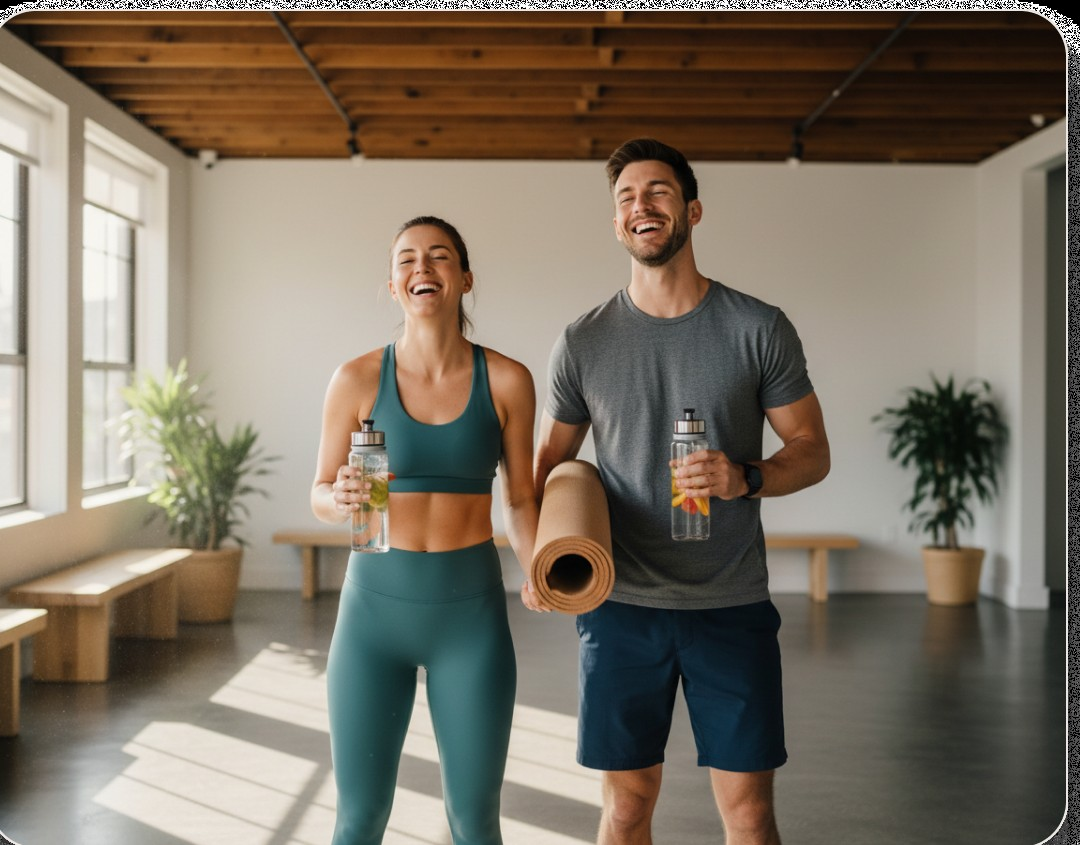
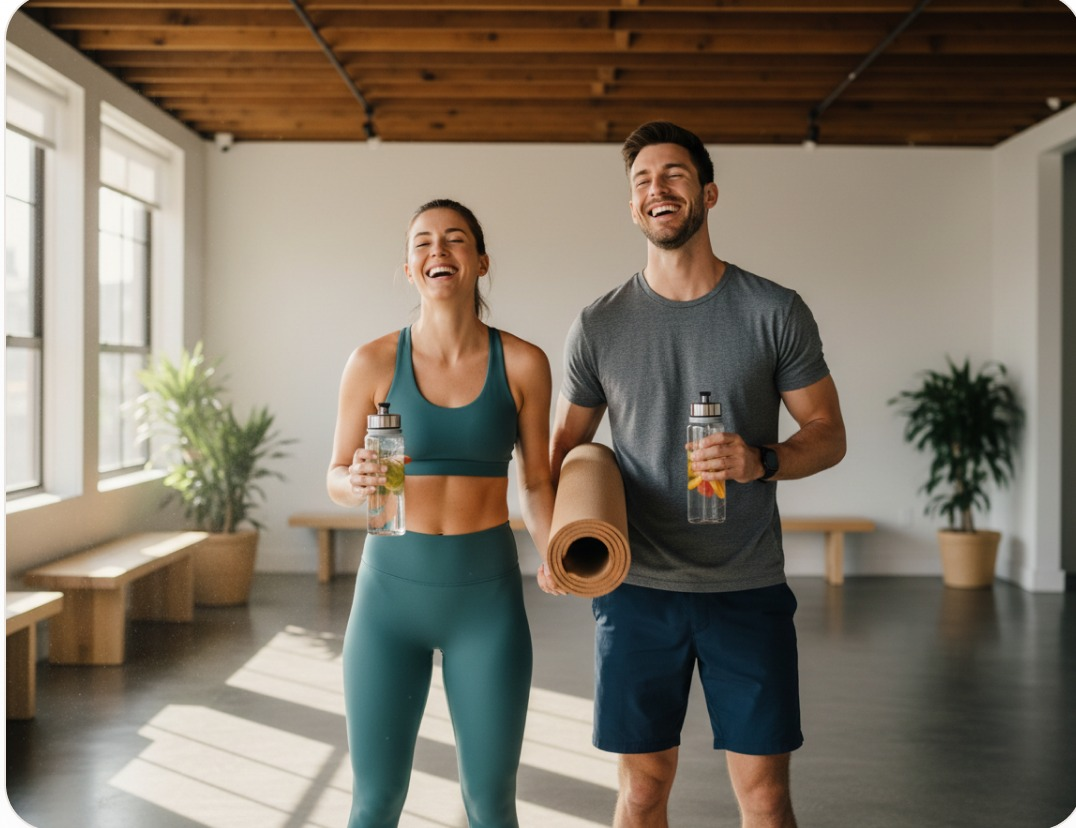
Fix hero photo crop: composite onto white before flattening to remove black artifacts baked in from transparent PNG edges

diff --git a/src/sections/HeroSection.tsx b/src/sections/HeroSection.tsx
@@ -55,7 +55,7 @@ export default function HeroSection() {
               <img
                 src="assets/hero/couple-workout.jpg"
                 alt="A woman and man smiling together after a workout, holding water bottles and a yoga mat"
-                className="aspect-[1080/845] w-full rounded-[20px] object-cover"
+                className="aspect-[1076/828] w-full rounded-[20px] object-cover"
               />
             </div>
           </div>
